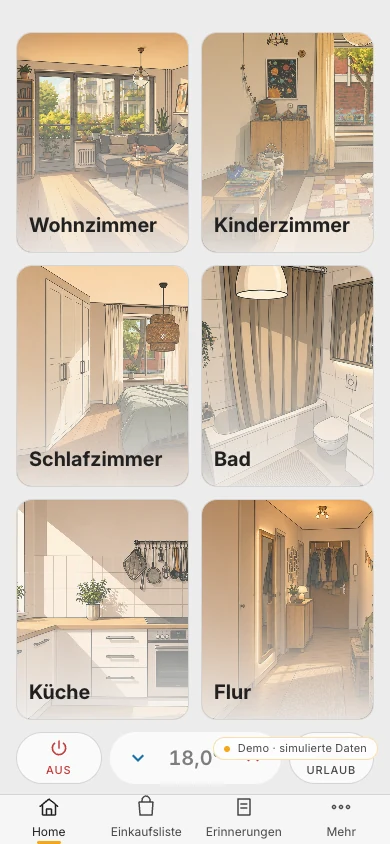
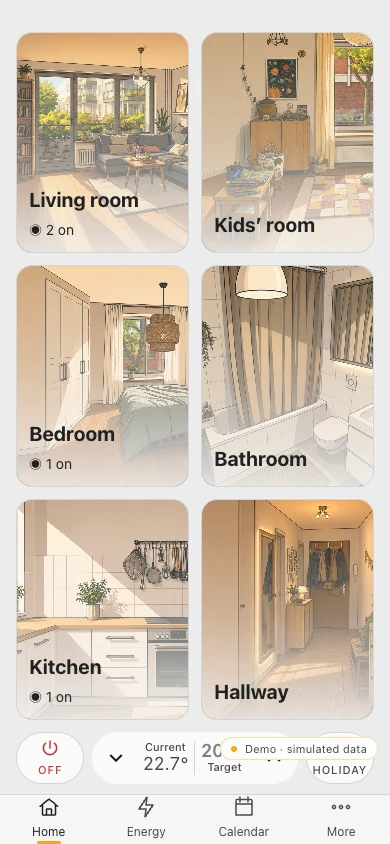
chore(public): promote private source be786ed7d1e5
Private-Source: be786ed7d1e511f55bc08ca7c7dd4558468e6b64

diff --git a/app/src/lib/demo/demo-mode.ts b/app/src/lib/demo/demo-mode.ts
@@ -233,6 +233,15 @@ function resetDemoState(): void {
   } catch { /* Storage nicht verfügbar — dann gibt es auch nichts zu räumen */ }
 }
 
+/* Räume werden nach dem ersten Paint und bei jeder Geräteänderung neu aus dem
+   Seed projiziert — dabei tragen sie wieder die deutschen Seed-Namen. Ohne
+   erneutes Anwenden bleibt die Demo in jeder Sprache deutsch beschriftet.
+   Der dynamische Import hält demo-names.ts aus dem Produktions-Bundle heraus. */
+export function reapplyDemoNames(rooms: Parameters<typeof import('./demo-names.ts').applyDemoNames>[0]): void {
+  if (!IS_DEMO) return;
+  void import('./demo-names.ts').then(({ applyDemoNames }) => applyDemoNames(rooms));
+}
+
 /* Dauerhafte Kennzeichnung: simulierte Daten, kein echtes Zuhause. */
 function addDemoBadge(): void {
   if (typeof document === 'undefined' || document.querySelector('.demo-badge')) return;

diff --git a/app/src/lib/state/startup-background.ts b/app/src/lib/state/startup-background.ts
@@ -1,5 +1,6 @@
 import { installHaRetryFactory } from '../adapter/ha-backend.ts';
 import { runtime } from '../adapter/runtime.svelte.ts';
+import { reapplyDemoNames } from '../demo/demo-mode.ts';
 import { appState, ROOM_SEED } from './app.svelte.ts';
 import { syncAuthState } from './auth.svelte.ts';
 import { initFamilyCalendar } from './calendar.svelte.ts';
@@ -37,6 +38,7 @@ function readShared(key: string): string | null {
 export function rehydrateSharedConfigConsumers(): void {
   deviceManager.config = loadDeviceConfig();
   appState.rooms = buildRuntimeRooms(ROOM_SEED, deviceManager.catalog, deviceManager.config);
+  reapplyDemoNames(appState.rooms);
   rehydrateLayoutManager();
   rehydrateImmersionLight();
   sceneManager.config = loadSceneConfig();

diff --git a/app/src/lib/components/phone/PhoneHomeFeed.svelte b/app/src/lib/components/phone/PhoneHomeFeed.svelte
@@ -100,10 +100,10 @@
       </div>
       <button class="phone-quick-action is-vacation pressable" class:is-active={vacationActive}
               type="button" disabled={!online} aria-pressed={vacationActive}
-              aria-label={vacationActive ? 'Urlaubsmodus ausschalten' : 'Urlaubsmodus einschalten'}
+              aria-label={vacationActive ? m.phone_vacation_off_label() : m.phone_vacation_on_label()}
               onclick={toggleVacationMode}>
         <Icon name="i-umbrella-beach" cls="icon icon-md" />
-        <span>{vacationActive ? 'Aktiv' : 'Urlaub'}</span>
+        <span>{vacationActive ? m.phone_vacation_active() : m.phone_vacation()}</span>
       </button>
     </div>
   {/if}

diff --git a/app/src/lib/state/phone-home.test.ts b/app/src/lib/state/phone-home.test.ts
@@ -138,7 +138,7 @@ describe('phone home source, command and modal boundaries', () => {
     expect(phoneHome).toMatch(/onclick=\{toggleVacationMode\}/);
     expect(phoneHome).toMatch(/disabled=\{!online\}/);
     expect(phoneHome).not.toMatch(/disabled=\{!online \|\| vacationActive\}/);
-    expect(phoneHome).toContain("vacationActive ? 'Urlaubsmodus ausschalten' : 'Urlaubsmodus einschalten'");
+    expect(phoneHome).toContain('vacationActive ? m.phone_vacation_off_label() : m.phone_vacation_on_label()');
   });
 
   it('implements the shared modal lifecycle, focus trap, close paths and outer outro', () => {

diff --git a/app/src/lib/state/device-manager.svelte.ts b/app/src/lib/state/device-manager.svelte.ts
@@ -1,3 +1,4 @@
+import { reapplyDemoNames } from '../demo/demo-mode.ts';
 import { runtime } from '../adapter/runtime.svelte.ts';
 import { appState, ROOM_SEED } from './app.svelte.ts';
 import {
@@ -69,4 +70,5 @@ function updateConfig(config: DeviceConfig): void {
 
 function applyProjection(): void {
   appState.rooms = buildRuntimeRooms(ROOM_SEED, deviceManager.catalog, deviceManager.config);
+  reapplyDemoNames(appState.rooms);
 }

diff --git a/app/messages/_restructure.py b/app/messages/_restructure.py
@@ -1,0 +1,182 @@
+import json, glob
+
+LANG_VALUES = {
+  'de': {
+    'laundry_label': 'Wäsche',
+    'laundry_desc': 'Waschmaschine und Trockner einrichten — Zustandsentität oder Leistungssensor-Blueprint.',
+    'layout_label': 'Layout & Bedienung',
+    'layout_desc': 'Kontrollflächen und Raumkontexte des Home-Screens, Panelbreite — pro Gerät.',
+    'media_label': 'Medien & Musik',
+    'media_desc': 'Bibliotheks-Modus und KI-generierte Songtexte in der Songwerkstatt.',
+    'ai_customizing_label': 'App per KI anpassen',
+    'ai_customizing_desc': 'Feature-Chat und Verlauf: die App durch Beschreibungen anpassen und Änderungen zurückrollen.',
+    'sys_group_services_ai': 'KI',
+    'appearance_label': 'Erscheinungsbild',
+    'calendar_label': 'Kalender & Erinnerungen',
+    'calendar_desc': 'Auswahl der angezeigten Kalender und Erinnerungslisten.',
+    'status_label': 'Status & Updates',
+    'status_desc': 'Gesundheitszustand der Verbindung und aller Smart-Home-Dienste, dazu verfügbare Software-Aktualisierungen.',
+    'maintenance_label': 'Wartung & Diagnose',
+    'maintenance_desc': 'Lokale Caches leeren, Demo-Modus umschalten, App neu laden.',
+  },
+  'en': {
+    'laundry_label': 'Laundry',
+    'laundry_desc': 'Set up the washer and dryer — a state entity or a power-sensor blueprint.',
+    'layout_label': 'Layout & Interaction',
+    'layout_desc': 'Control surfaces and room contexts of the Home screen, panel width — per device.',
+    'media_label': 'Media & Music',
+    'media_desc': 'Library mode and AI-generated lyrics in the Song Studio.',
+    'ai_customizing_label': 'Customize the app with AI',
+    'ai_customizing_desc': 'Feature chat and history: describe changes and roll them back.',
+    'sys_group_services_ai': 'AI',
+    'appearance_label': 'Appearance',
+    'calendar_label': 'Calendar & Reminders',
+    'calendar_desc': 'Choose which calendars and reminder lists to show.',
+    'status_label': 'Status & Updates',
+    'status_desc': 'Health of the connection and of every smart home service, plus available software updates.',
+    'maintenance_label': 'Maintenance & Diagnostics',
+    'maintenance_desc': 'Clear local caches, switch demo mode, reload the app.',
+  },
+  'fr': {
+    'laundry_label': 'Linge',
+    'laundry_desc': 'Configurez la machine à laver et le sèche-linge — entité d\'état ou blueprint de capteur de puissance.',
+    'layout_label': 'Mise en page & utilisation',
+    'layout_desc': 'Surfaces de contrôle et contextes de pièce de l\'écran d\'accueil, largeur du panneau — par appareil.',
+    'media_label': 'Médias & musique',
+    'media_desc': 'Mode bibliothèque et paroles générées par IA dans l\'Atelier à chansons.',
+    'ai_customizing_label': 'Personnaliser l\'app avec l\'IA',
+    'ai_customizing_desc': 'Chat et historique des fonctionnalités : décrire des modifications et les annuler.',
+    'sys_group_services_ai': 'IA',
+    'appearance_label': 'Apparence',
+    'calendar_label': 'Calendrier & rappels',
+    'calendar_desc': 'Choisissez les calendriers et listes de rappels affichés.',
+    'status_label': 'Statut & mises à jour',
+    'status_desc': 'Santé de la connexion et de tous les services domotiques, plus les mises à jour disponibles.',
+    'maintenance_label': 'Maintenance & diagnostic',
+    'maintenance_desc': 'Vider les caches locaux, basculer le mode démo, recharger l\'application.',
+  },
+  'it': {
+    'laundry_label': 'Bucato',
+    'laundry_desc': 'Configura lavatrice e asciugatrice — entità di stato o blueprint del sensore di potenza.',
+    'layout_label': 'Layout e interazione',
+    'layout_desc': 'Superfici di controllo e contesti stanza della schermata Home, larghezza del pannello — per dispositivo.',
+    'media_label': 'Media e musica',
+    'media_desc': 'Modalità libreria e testi generati dall\'IA nella Song Workshop.',
+    'ai_customizing_label': 'Personalizza l\'app con l\'IA',
+    'ai_customizing_desc': 'Chat e cronologia delle funzionalità: descrivi le modifiche e annullale.',
+    'sys_group_services_ai': 'IA',
+    'appearance_label': 'Aspetto',
+    'calendar_label': 'Calendario e promemoria',
+    'calendar_desc': 'Scelta dei calendari e degli elenchi di promemoria mostrati.',
+    'status_label': 'Stato e aggiornamenti',
+    'status_desc': 'Salute della connessione e di tutti i servizi della casa intelligente, più gli aggiornamenti disponibili.',
+    'maintenance_label': 'Manutenzione e diagnostica',
+    'maintenance_desc': 'Svuotare le cache locali, cambiare modalità demo, ricaricare l\'app.',
+  },
+  'pl': {
+    'laundry_label': 'Pranie',
+    'laundry_desc': 'Skonfiguruj pralkę i suszarkę — encja stanu lub blueprint czujnika mocy.',
+    'layout_label': 'Układ i obsługa',
+    'layout_desc': 'Powierzchnie sterowania i konteksty pomieszczeń ekranu głównego, szerokość panelu — na urządzenie.',
+    'media_label': 'Media i muzyka',
+    'media_desc': 'Tryb biblioteki i teksty generowane przez AI w Warsztacie piosenek.',
+    'ai_customizing_label': 'Dostosuj aplikację przez AI',
+    'ai_customizing_desc': 'Chat funkcji i historia: opisz zmiany i cofnij je.',
+    'sys_group_services_ai': 'AI',
+    'appearance_label': 'Wygląd',
+    'calendar_label': 'Kalendarz i przypomnienia',
+    'calendar_desc': 'Wybór wyświetlanych kalendarzy i list przypomnień.',
+    'status_label': 'Stan i aktualizacje',
+    'status_desc': 'Kondycja połączenia i wszystkich usług inteligentnego domu oraz dostępne aktualizacje.',
+    'maintenance_label': 'Konserwacja i diagnostyka',
+    'maintenance_desc': 'Wyczyść lokalne pamięci podręczne, przełącz tryb demo, przeładuj aplikację.',
+  },
+  'pt': {
+    'laundry_label': 'Roupas',
+    'laundry_desc': 'Configure a máquina de lavar e a secadora — entidade de estado ou blueprint de sensor de potência.',
+    'layout_label': 'Layout e interação',
+    'layout_desc': 'Superfícies de controle e contextos de cômodos da tela inicial, largura do painel — por dispositivo.',
+    'media_label': 'Mídia e música',
+    'media_desc': 'Modo biblioteca e letras geradas por IA na Oficina de canções.',
+    'ai_customizing_label': 'Personalize o app com IA',
+    'ai_customizing_desc': 'Chat de recursos e histórico: descreva mudanças e desfaça-as.',
+    'sys_group_services_ai': 'IA',
+    'appearance_label': 'Aparência',
+    'calendar_label': 'Calendário e lembretes',
+    'calendar_desc': 'Escolha dos calendários e listas de lembretes apresentados.',
+    'status_label': 'Estado e atualizações',
+    'status_desc': 'Saúde da ligação e de todos os serviços da casa inteligente, mais as atualizações disponíveis.',
+    'maintenance_label': 'Manutenção e diagnóstico',
+    'maintenance_desc': 'Limpar caches locais, alternar o modo demo, recarregar a aplicação.',
+  },
+}
+
+REMOVE = [
+  'settings_group_ai_label',
+  'settings_section_updates_label', 'settings_section_updates_desc',
+  'settings_section_notifications_label', 'settings_section_notifications_desc',
+  'settings_section_home_layout_label', 'settings_section_home_layout_desc',
+  'settings_section_operating_mode_label', 'settings_section_operating_mode_desc',
+  'settings_section_ai_access_label', 'settings_section_ai_access_desc',
+  'settings_section_ai_features_label', 'settings_section_ai_features_desc',
+  'sys_operating_mode_note', 'sys_ai_features_group',
+]
+
+# new key -> anchor key (insert right after anchor)
+ADD_AFTER = {
+  'settings_section_laundry_label': 'settings_section_rooms_devices_label',
+  'settings_section_laundry_desc': 'settings_section_laundry_label',
+  'settings_section_layout_label': 'settings_section_appearance_desc',
+  'settings_section_layout_desc': 'settings_section_layout_label',
+  'settings_section_media_label': 'settings_section_shopping_desc',
+  'settings_section_media_desc': 'settings_section_media_label',
+  'settings_section_ai_customizing_label': 'settings_entry_ai_song_lyrics_label',
+  'settings_section_ai_customizing_desc': 'settings_section_ai_customizing_label',
+  'sys_group_services_ai': 'sys_group_services_private',
+}
+
+UPDATE = {
+  'settings_section_appearance_label': 'appearance_label',
+  'settings_section_calendar_label': 'calendar_label',
+  'settings_section_calendar_desc': 'calendar_desc',
+  'settings_section_status_label': 'status_label',
+  'settings_section_status_desc': 'status_desc',
+  'settings_section_maintenance_label': 'maintenance_label',
+  'settings_section_maintenance_desc': 'maintenance_desc',
+}
+
+for path in sorted(glob.glob('app/messages/*.json')):
+    lang = path.split('/')[-1][:-5]
+    d = json.load(open(path))
+    for k in REMOVE:
+        d.pop(k, None)
+    for k, varkey in UPDATE.items():
+        d[k] = LANG_VALUES[lang][varkey]
+    # insert new keys after anchors
+    for newk, anchor in ADD_AFTER.items():
+        if newk in d:
+            continue
+        value = newk.split('_label')[0] if newk.endswith('_label') else None
+        if newk.endswith('_label'):
+            varkey = newk.replace('settings_section_', '').replace('_label', '') + '_label'
+            val = LANG_VALUES[lang][varkey]
+        elif newk.endswith('_desc'):
+            varkey = newk.replace('settings_section_', '').replace('_desc', '') + '_desc'
+            val = LANG_VALUES[lang][varkey]
+        else:  # sys_group_services_ai
+            val = LANG_VALUES[lang]['sys_group_services_ai']
+        items = list(d.items())
+        pos = 0
+        for i, (ak, av) in enumerate(items):
+            if ak == anchor:
+                pos = i + 1
+                break
+        else:
+            pos = len(items)
+        items.insert(pos, (newk, val))
+        d = dict(items)
+    json.dump(d, open(path, 'w'), ensure_ascii=False, indent=2)
+    open(path, 'a').write('\n')
+    print(f'{path}: {len(d)} keys')
+
+print('done')

diff --git a/app/messages/_check_i18n.py b/app/messages/_check_i18n.py
@@ -1,0 +1,49 @@
+import json, os, re
+
+base = os.path.dirname(os.path.abspath(__file__))
+root = os.path.abspath(os.path.join(base, ".."))
+langs = ["de", "en", "fr", "it", "pl", "pt"]
+data = {}
+for l in langs:
+    with open(os.path.join(base, l + ".json"), "r") as f:
+        data[l] = json.load(f)
+
+# Schlüssel, die die Registry referenziert (m.xxx())
+reg_path = os.path.join(root, "src/lib/state/settings-registry.ts")
+with open(reg_path, "r") as f:
+    reg_src = f.read()
+refd = set(re.findall(r"m\.([a-zA-Z0-9_]+)\(\)", reg_src))
+
+# Komponenten, die die neue Struktur nutzen (schon umgestellt: NotificationsSection=Laundry, HomeLayoutSection=Layout)
+comp_dirs = [
+    os.path.join(root, "src/lib/components/settings"),
+    os.path.join(root, "src/lib/components/ai"),
+]
+comp_src = ""
+for d in comp_dirs:
+    for fn in os.listdir(d):
+        if fn.endswith(".svelte") or fn.endswith(".ts"):
+            with open(os.path.join(d, fn), "r") as f:
+                comp_src += f.read()
+comp_refd = set(re.findall(r"m\.([a-zA-Z0-9_]+)\(\)", comp_src))
+
+de_keys = set(data["de"].keys())
+
+# Registry-referenzierte Schlüssel, die in de fehlen
+missing_reg = sorted(refd - de_keys)
+print("Registry referenziert", len(refd), "Schluessel; fehlend in de:", missing_reg)
+
+# Komponenten-referenzierte Schlüssel fehlend in de
+missing_comp = sorted(comp_refd - de_keys)
+print("Komponenten referenzieren", len(comp_refd), "Schluessel; fehlend in de:", missing_comp)
+
+# Konsistenz über Sprachen: Schlüssel, die in de vorhanden aber in anderen fehlen
+print("\nSchluesselanzahl:", {l: len(data[l]) for l in langs})
+for l in langs:
+    miss = de_keys - set(data[l].keys())
+    if miss:
+        print(f"  {l}: fehlt vs de:", sorted(miss))
+
+# Gruppen-Labels Werte
+for g in ["settings_group_home_label","settings_group_appearance_label","settings_group_content_label","settings_group_connectivity_label","settings_group_system_label"]:
+    print(g, "=", data["de"].get(g))

diff --git a/app/messages/_add_desc.py b/app/messages/_add_desc.py
@@ -1,0 +1,35 @@
+import json, os, re
+
+base = os.path.dirname(os.path.abspath(__file__))
+translations = {
+    "de": "Räume verwalten, Geräte umbenennen und Raumbilder erstellen — die Struktur deines Zuhauses.",
+    "en": "Manage rooms, rename devices and create room images — the structure of your home.",
+    "fr": "Gérez les pièces, renommez les appareils et créez des images de pièce — la structure de votre maison.",
+    "it": "Gestisci le stanze, rinomina i dispositivi e crea immagini delle stanze — la struttura della tua casa.",
+    "pl": "Zarządzaj pokojami, zmieniaj nazwy urządzeń i twórz obrazy pokoi — struktura Twojego domu.",
+    "pt": "Gerencie as divisões, renomeie os dispositivos e crie imagens de divisões — a estrutura da sua casa.",
+}
+KEY = "settings_section_rooms_devices_desc"
+
+for lang, text in translations.items():
+    path = os.path.join(base, lang + ".json")
+    with open(path, "r") as f:
+        raw = f.read()
+    if f'"{KEY}"' in raw:
+        print(lang, "schon vorhanden, skip")
+        continue
+    # Label-Zeile finden: "settings_section_rooms_devices_label": "...",  (endet mit Komma)
+    pat = re.compile(r'^(\s*"settings_section_rooms_devices_label":\s*"[^"]*",)$', re.M)
+    m = pat.search(raw)
+    if not m:
+        print(lang, "Label-Zeile nicht gefunden!")
+        continue
+    # Einfügen direkt nach der Label-Zeile, mit identischem Einzug
+    indent = m.group(1).split('"')[0]  # z.B. zwei Leerzeichen
+    new_line = indent + '"' + KEY + '": "' + text + '",'
+    raw = raw[:m.end()] + "\n" + new_line + raw[m.end():]
+    with open(path, "w") as f:
+        f.write(raw)
+    # Verifikation: JSON valide?
+    json.loads(raw)
+    print(lang, "eingefuegt OK")
